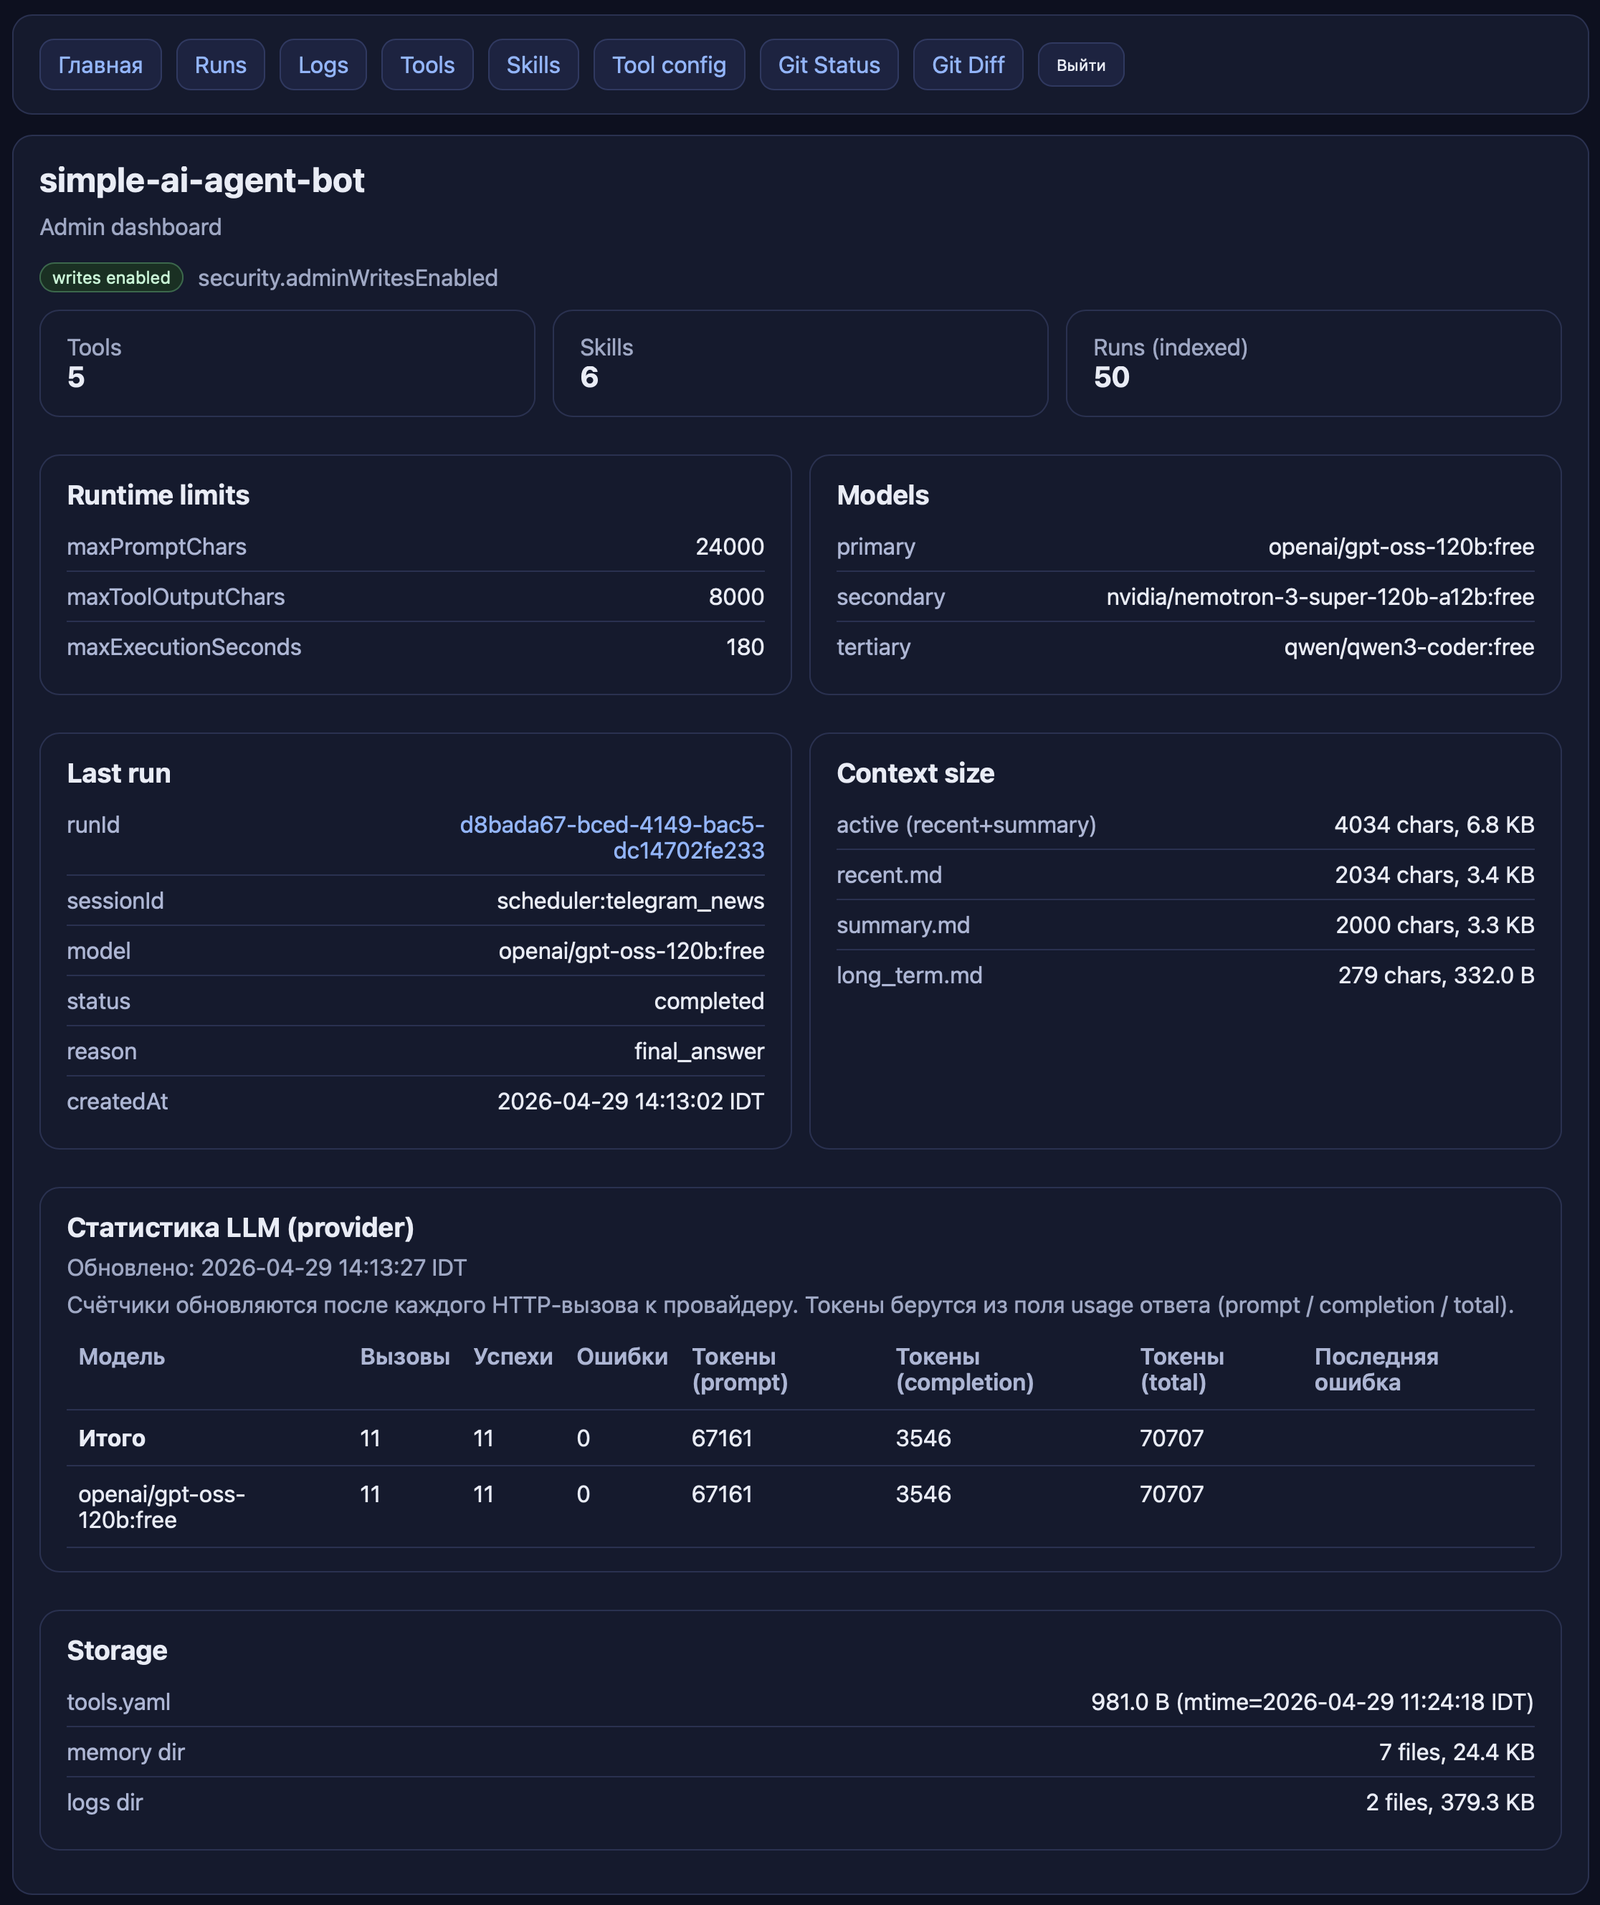
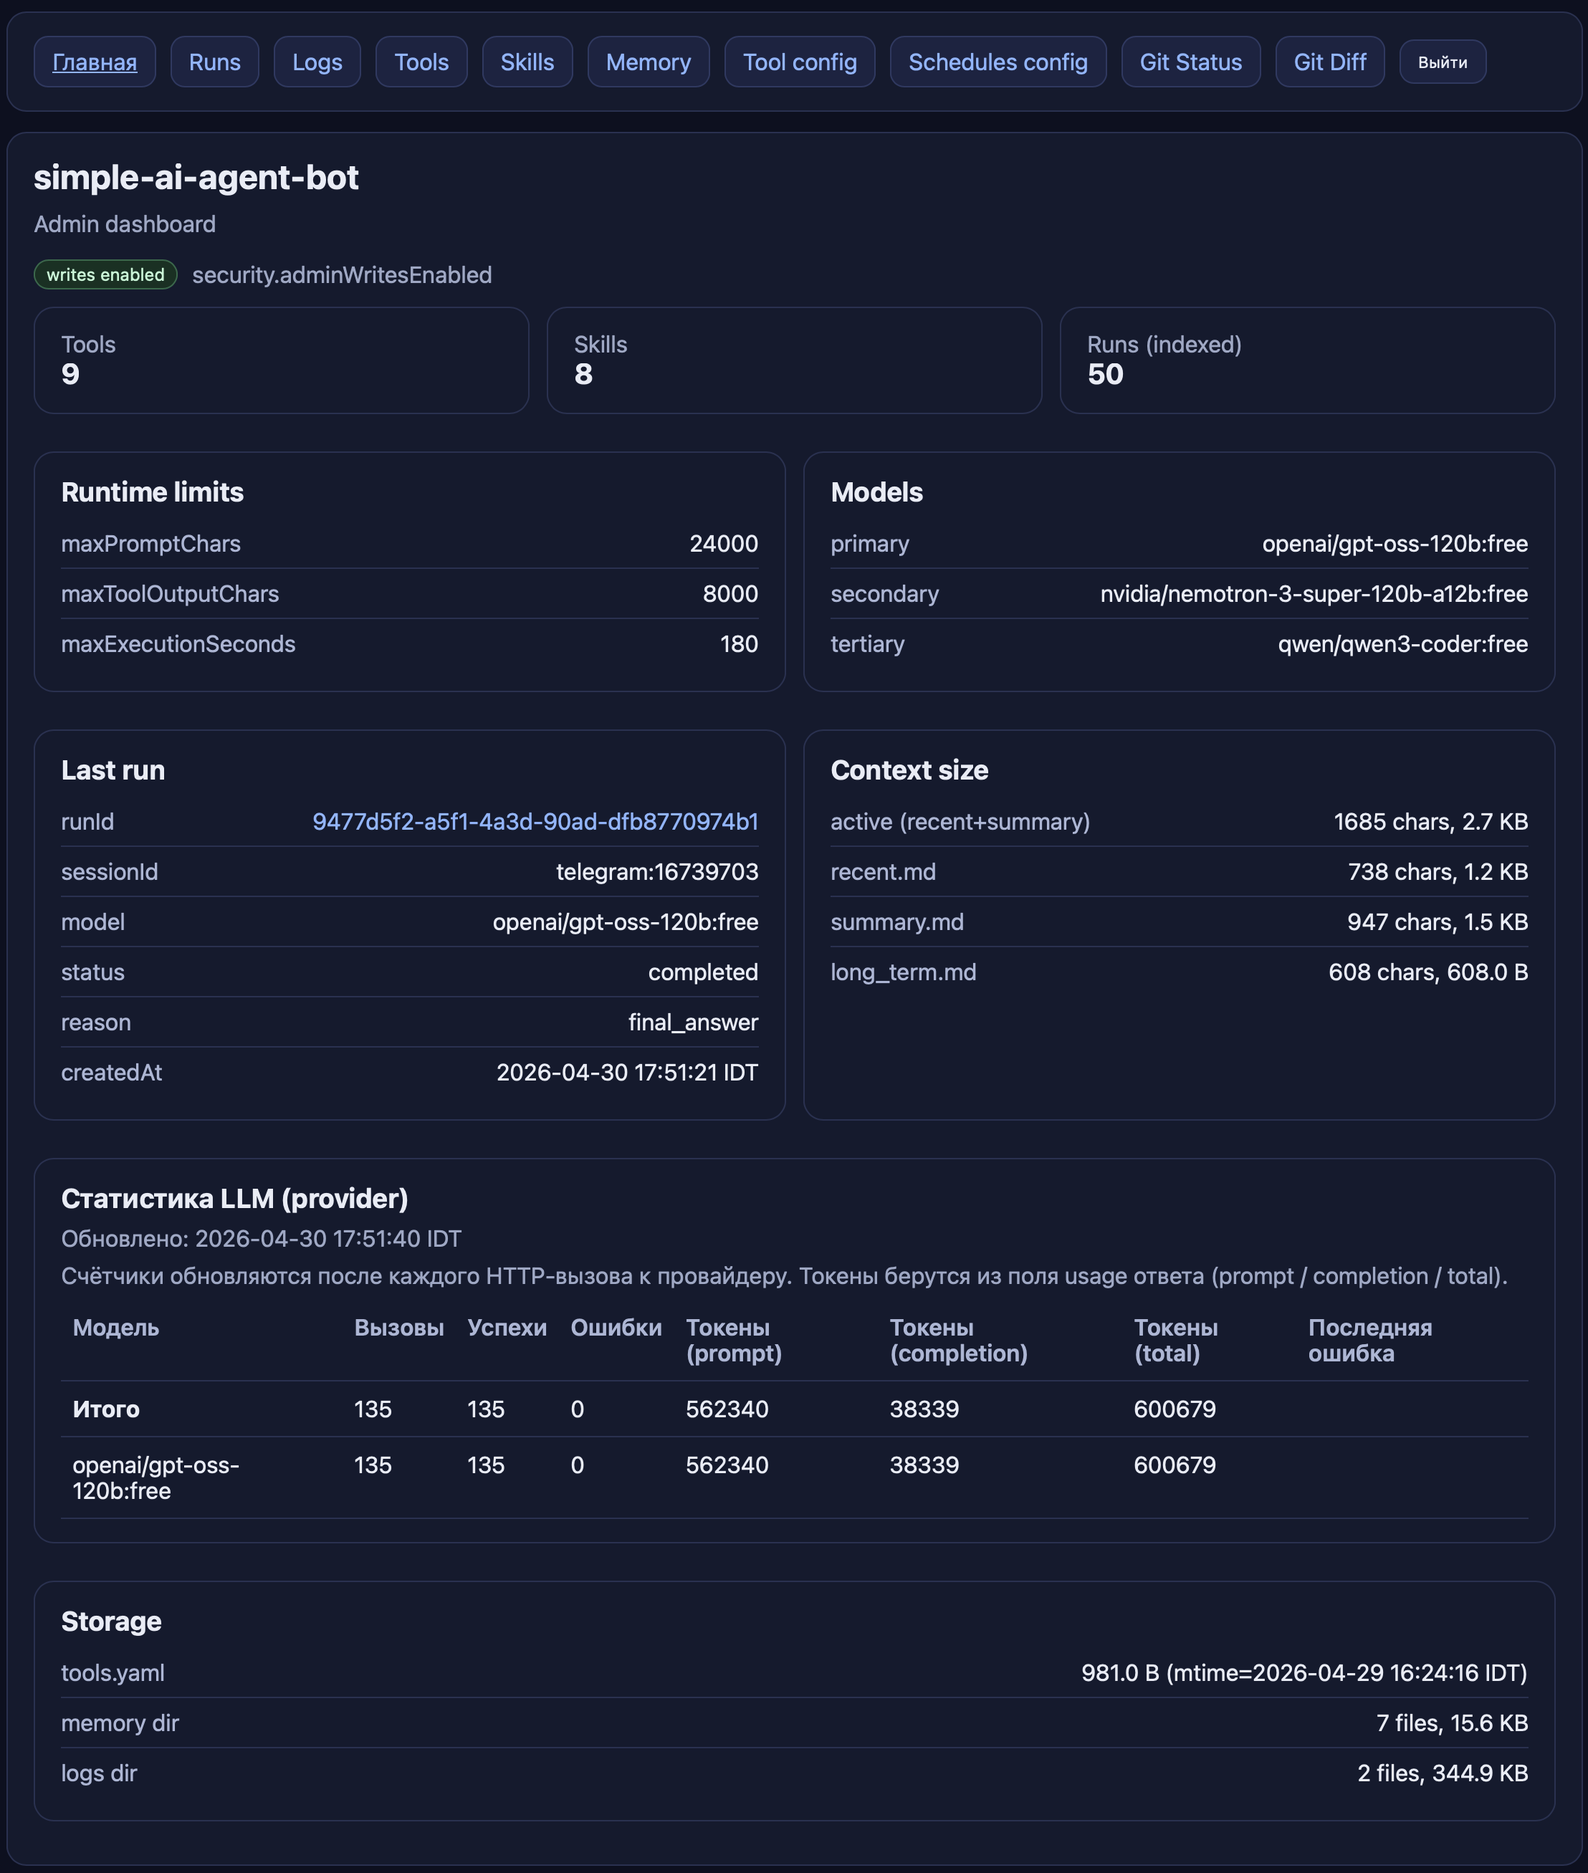
readme and more

diff --git a/README.md b/README.md
@@ -2,55 +2,37 @@
 
 ![simple_AI_agent_bot logo](logo.png)
 
-Монолитный MVP AI-агент с управляемым agentic loop, Telegram-ботом, fallback по OpenRouter и веб-админкой для наблюдаемости.
+Монолитный AI‑агент, которого действительно хочется “потрогать руками”: Telegram‑бот с голосом→текст, управляемым agentic loop, набором tools, Markdown skills/памятью и web‑админкой для наблюдаемости.  
+Если ты любишь системы, где можно **видеть каждый шаг**, **воспроизводить run**, **контролировать tool‑вызовы** и **не ловить магию “оно само что-то сделало”** — тебе сюда.
 
 ![Admin dashboard](image.png)
 
-## Быстрый старт (локально)
+### Почему интересно попробовать
+- **Живой агент в Telegram**: пиши текстом или голосом — дальше всё идёт по одному пайплайну.
+- **Управляемость**: строгий runtime‑контракт (`tool_call`/`final`/`stop`), лимиты, repair‑pass, анти‑циклы.
+- **Наблюдаемость “из коробки”**: каждый run сохраняется на диск вместе с prompt snapshot, raw/parsed ответами модели, tool calls/results и observations.
+- **Skills как продуктовая логика**: поведение/форматы живут в Markdown‑skills (можно читать и править), а не “в коде где-то глубоко”.
+- **Scheduler + reminders**: планировщик внутренних run‑ов + напоминания, которые хранятся в `schedules.yaml` и автоматически чистятся после отработки.
 
-1) Создать venv и поставить зависимости:
+### Что умеет (главные фичи)
+- **Telegram‑бот**: allowlist по user id, команды `/start`, `/health`, `/reset`, `/context`.
+- **Voice‑to‑text**: `message.voice` и `message.audio` → `faster-whisper` → транскрипт → обычный агентский пайплайн.
+- **Agent runtime**: шаги, лимиты времени/инструментов, repair‑pass на формат, anti‑loop guards.
+- **OpenRouter**: primary/secondary/tertiary модель + retry/fallback с логированием выбранной модели.
+- **Tools**: `digest_telegram_news`, `read_email`, `web_search`, `read_memory_file`, `schedule_reminder`, `list_reminders`, `delete_reminder`, и др.
+- **Skills & memory**: Markdown skills, rule‑based выбор релевантных skills, память recent/summary/long‑term.
+- **Web‑админка**: runs/logs/tools/skills/git, internal JSON API `/internal/*` под той же auth‑схемой.
+- **Scheduler (variant B)**: periodic internal runs + reminders, state в `data/scheduler/jobs_state.json`.
 
-```bash
-python3.12 -m venv .venv
-source .venv/bin/activate
-pip install -r requirements.txt
-```
-
-2) Подготовить конфиг и `.env`:
-
-```bash
-cp app/config/config.example.yaml app/config/config.yaml
-cp .env.example .env
-```
-
-3) Заполнить `.env`:
-
-```env
-TELEGRAM_BOT_TOKEN=...
-OPENROUTER_API_KEY=...
-SESSION_COOKIE_SECRET=your-long-secret-at-least-32-chars
-ADMIN_RAW_TOKENS=admin_token_123456,admin_token_654321
-EMAIL_APP_PASSWORD=your_gmail_app_password
-```
-
-4) Запустить приложение:
-
+### Быстрый “вкус” локально (2 команды после конфига)
+После базовой настройки (см. ниже) можно:\n
+1) Запустить сервер:\n
 ```bash
 uvicorn app.main:app --host 0.0.0.0 --port 8000
-```
-
-Переменные из окружения терминала имеют приоритет над значениями из `.env`.
-
-## Что это умеет (коротко)
-
-- **Telegram**: личные чаты, allowlist по user id, команды `/start`, `/health`, `/reset`, `/context`.
-- **Voice-to-text**: голосовые/аудио в Telegram → транскрипт → дальше обычный пайплайн агента как для текста.
-- **Agent runtime**: strict JSON-выход, agentic loop, лимиты по шагам/времени/tool calls, repair-pass для JSON.
-- **OpenRouter**: primary/secondary/tertiary модели, retry и fallback с логированием.
-- **Инструменты (tools)**: `digest_telegram_news`, `save_digest_preference`, `save_email_preference`, `web_search`, `read_memory_file`, `read_email`, `schedule_reminder`, `list_reminders`, `delete_reminder`.
-- **Skills & memory**: Markdown skills, rule-based selection, память recent/summary/long-term.
-- **Observability**: runs в `data/runs/<runId>.json` + `index.jsonl`, JSONL-логи, web UI (`/`, `/runs`, `/logs`, `/tools`, `/skills`, `/git/*`).
-- **Scheduler (variant B)**: встроенные запуски внутренних run-ов по расписанию.
+```\n
+2) Открыть web‑админку и смотреть runs/logs:\n
+- `GET /login` → вставить admin token\n
+- `GET /runs` → открыть run и увидеть шаги
 
 ## Веб-админка
 
@@ -379,66 +361,6 @@ crontab -e
 
 ---
 
-## Примечание (история)
+## История развития
 
-- каркас layered-архитектуры;
-- typed-конфиг с fail-fast загрузкой;
-- базовый FastAPI app и health endpoint;
-- базовый Telegram polling skeleton с allowlist-проверкой;
-- базовые доменные модели и протоколы;
-- strict JSON output parser (`tool_call` / `final` / `stop`);
-- базовый agent loop с лимитами шагов/времени/tool calls и controlled stop;
-- skeleton prompt builder с ограничением размера;
-- tools subsystem: registry, schemas, metadata renderer, execution coordinator;
-- standardized tool result envelope и стандартные error-codes;
-- read-only tools:
-  - `digest_telegram_news`
-  - `web_search`
-  - `read_memory_file`
-  - `read_email`;
-- OpenRouter client integration;
-- retries + fallback policy по primary/secondary/tertiary;
-- raw provider response logging и fallback events в JSONL;
-- markdown skills store и rule-based skill selection;
-- markdown memory store:
-  - recent messages
-  - session summary
-  - long-term memory;
-- memory policy для отбора `memory_candidates`;
-- обновление summary/long-term после завершения run;
-- внутренний endpoint для отладки запуска loop: `POST /internal/run`;
-- web просмотр логов:
-  - `GET /logs`
-  - `GET /internal/logs`;
-- Telegram polling подключен в lifecycle FastAPI (`startup/shutdown`);
-- Telegram команды:
-  - `/start`
-  - `/health`
-  - `/reset`;
-- run persistence model:
-  - `data/runs/<runId>.json`
-  - `data/runs/index.jsonl`;
-- в run trace сохраняются:
-  - prompt snapshot
-  - raw/parsed model responses
-  - tool calls/results
-  - observations
-  - effective config snapshot (masked);
-- run read API:
-  - `GET /internal/runs`
-  - `GET /internal/runs/{runId}`
-  - `GET /internal/runs/{runId}/steps`;
-- web страницы runs:
-  - `GET /runs`
-  - `GET /runs/{runId}`
-  - `GET /runs/{runId}/steps`;
-- web auth для admin surface:
-  - `GET /login`
-  - `POST /login` (вход по admin token из env)
-  - `POST /logout`
-  - `/logs`, `/runs`, `/runs/{runId}`, `/runs/{runId}/steps` защищены cookie-сессией;
-- git admin pages:
-  - `GET /git/status`
-  - `GET /git/diff`
-  - внутренние API: `GET /internal/git/status`, `GET /internal/git/diff`;
-- unit-тесты на конфиг, Telegram authorization behavior, parser, loop, tool executor, llm fallback, skills и memory.
+История развития, этапы и важные решения ведутся отдельно: [`how_project_was_developed.md`](how_project_was_developed.md).

diff --git a/how_project_was_developed.md b/how_project_was_developed.md
@@ -119,6 +119,35 @@
 | 2026-04-27 | Hardening email→дайджест: `read_email` теперь извлекает текст через `get_content()` (лучше для кодировок), очищает snippet от URL/CSS-шаблонов и добавляет `langHint`. Skill `compose_digest` закреплён с двухшаговой стратегией UNSEEN→ALL (если писем < N). В observation расширен `email_preview` (uid/date/langHint). Добавлены/обновлены тесты на очистку snippets. |
 | 2026-04-27 | Добавлен встроенный scheduler (variant B): конфиг `scheduler.*` в `config.yaml` + файл расписаний `app/config/schedules.yaml` (пример `schedules.example.yaml`, сам `schedules.yaml` игнорируется git). Реализован `SchedulerRunner` (фоновый thread в FastAPI lifespan), который запускает internal-run через `RunAgentUseCase.execute(sessionId, message)` и пишет состояние в `data/scheduler/jobs_state.json`. Добавлены unit-тесты `tests/test_scheduler_runner.py`. |
 | 2026-04-29 | Обновлён favicon-пайплайн в web-админке: `/favicon.ico` теперь отдаёт реальный `favicon.ico` с `image/x-icon` (вместо PNG), добавлены anti-cache заголовки (`no-store/no-cache`), а в HTML ссылка переключена на версионируемый URL `/favicon.ico?v=1` для надёжного cache-bust в браузерах. |
+| 2026-04-30 | Добавлены reminders в unified scheduler: tools `schedule_reminder/list_reminders/delete_reminder`, skill `schedule_reminder` (schema-first JSON), runtime guard на `VALIDATION_ERROR`, авто-удаление отработавших reminders из `schedules.yaml`, observability в web. |
+| 2026-04-30 | Добавлена поддержка Telegram voice/audio → text через `faster-whisper` (CPU). Добавлены события `voice_transcription_started/succeeded/failed`, лимиты по длительности/размеру, docker dependency `ffmpeg`, кэш моделей направлен в `/app/data/models`. |
+
+---
+
+## 8. Сводка “что уже сделано” (перенесено из README)
+
+Ранее в `README.md` поддерживался список выполненных шагов/компонентов. Чтобы README оставался чистой эксплуатационной документацией, эта сводка живёт здесь.
+
+- layered-архитектура монолита;
+- typed-конфиг с fail-fast загрузкой;
+- базовый FastAPI app + `/health`;
+- Telegram polling skeleton с allowlist и typing-индикатором;
+- strict YAML/JSON контракт runtime (`tool_call` / `final` / `stop`), repair-pass;
+- agent loop с лимитами шагов/времени/tool calls и anti-loop guards;
+- prompt builder с усечением prompt и time-context (UTC + business timezone);
+- tools subsystem: registry, schemas, metadata renderer, execution coordinator;
+- стандартизированный tool-result envelope + error codes;
+- read-only tools: `digest_telegram_news`, `web_search`, `read_memory_file`, `read_email`;
+- OpenRouter интеграция: retries + fallback policy primary/secondary/tertiary;
+- Markdown skills store + rule-based skill selection;
+- Markdown memory store: recent, session summary, long-term memory;
+- обновление summary/long-term после завершения run;
+- внутренний endpoint для отладки: `POST /internal/run`;
+- web UI (runs/logs/tools/skills/git) + web auth;
+- run persistence model: `data/runs/<runId>.json` + `data/runs/index.jsonl`, trace prompt/raw/parsed/tool/observations/config snapshot;
+- run read API: `GET /internal/runs`, `GET /internal/runs/{runId}`, `GET /internal/runs/{runId}/steps`;
+- git admin pages: `/git/status`, `/git/diff` (+ internal API);
+- unit/integration тесты на config, loop, tools, fallback, skills, memory, web auth.
 
 ---
 
